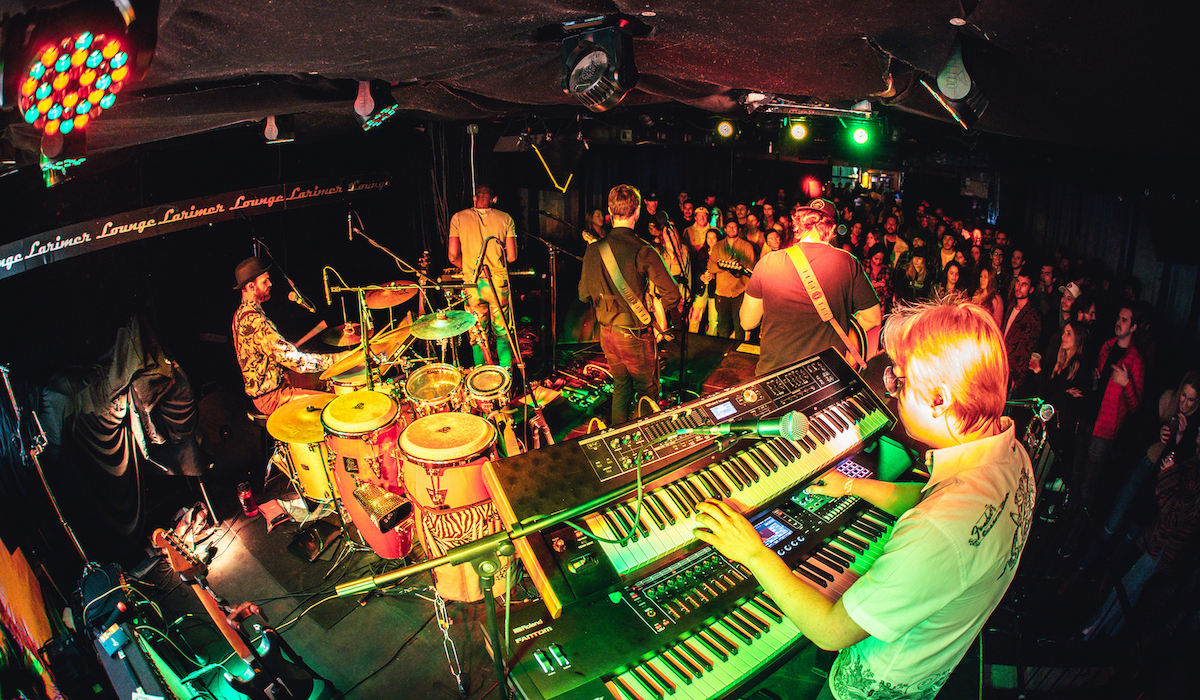
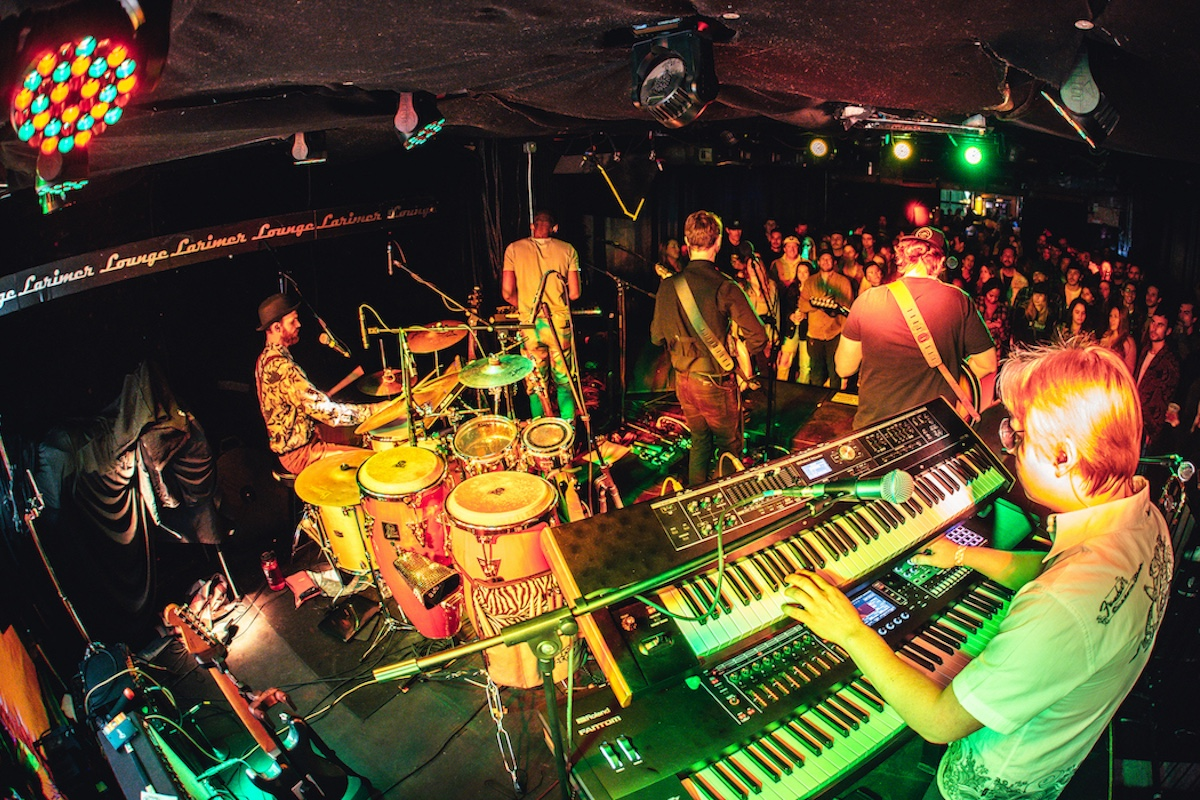
Fix greyscaling

diff --git a/index.html b/index.html
@@ -29,14 +29,13 @@
     margin-bottom: 25px;
     width: 80%;
     height: 80%;
-    opacity: 0.7;
   }
   .person:hover {
     border-color: #f1f1f1;
   }
   .carousel-inner img {
-    -webkit-filter: grayscale(90%);
-    filter: grayscale(90%); /* make all photos black and white */ 
+    -webkit-filter: grayscale(0%);
+    filter: grayscale(0%); /* make all photos black and white */ 
     width: 100%; /* Set width to 100% */
     margin: auto;
   }
@@ -95,11 +94,9 @@
   .nav-tabs li a {
     color: #777;
   }
-  #googleMap {
-    width: 100%;
-    height: 400px;
-    -webkit-filter: grayscale(100%);
-    filter: grayscale(100%);
+  .map {
+    -webkit-filter: grayscale(50%);
+    filter: grayscale(50%);
   }  
   .navbar {
     font-family: Montserrat, sans-serif;
@@ -423,7 +420,7 @@
   </div>
 
 <!-- Image of location/map -->
-<img src="images/denver.jpg" class="img-responsive" style="width:100%">
+<img src="images/denver.jpg" class="map" style="width:100%">
 
 <!-- Footer -->
 <footer class="text-center">
